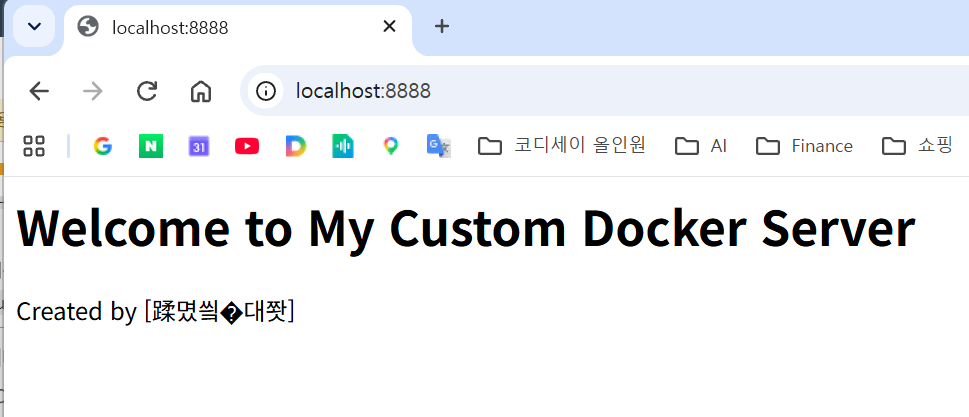
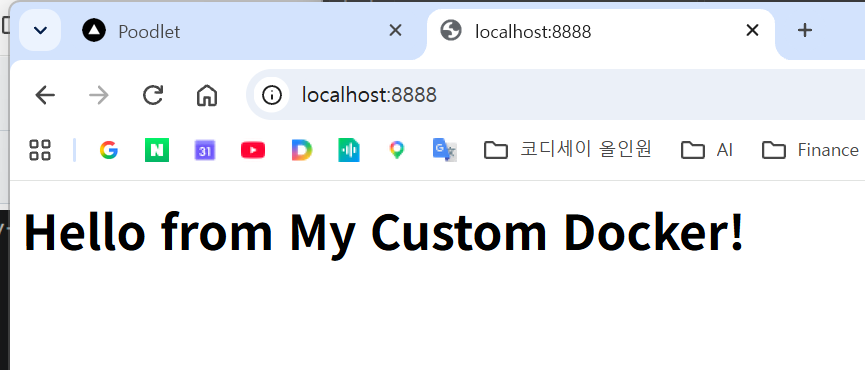
이미지 파일 및 Dockerfile 수정

Changed region(s): [[0.0, 0.0, 1.0, 1.0], [0.7803, 0.327, 0.9988, 0.4459]]

diff --git a/README.md b/README.md
@@ -296,7 +296,7 @@ docker run -d -p 8080:80 my-web-server
 ![d-c-f](docs/screenshots/d-c-f.png)
 ![d-c-f2](docs/screenshots/d-c-f2.png)
 ![d-c-f3](docs/screenshots/d-c-f3.png)
-![d-c-f4](docs/screenshots/d-c-f4.png)
+![d-c-f5](docs/screenshots/d-c-f5.png)
 
 
 ![custom-image](docs/screenshots/custom-image.png)
